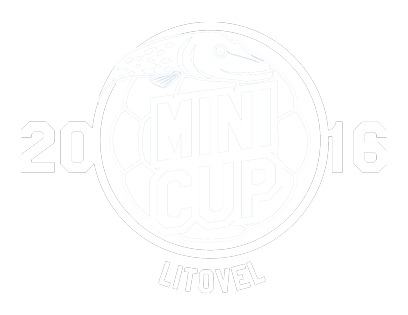
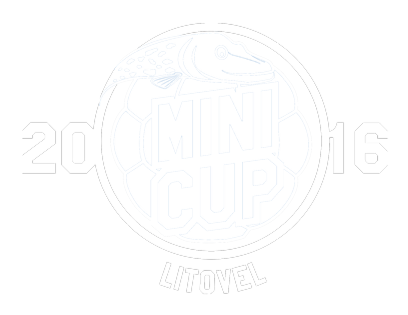
fixed outdated watermark

diff --git a/minicup/AdminModule/presenters/NewsPresenter.php b/minicup/AdminModule/presenters/NewsPresenter.php
@@ -32,7 +32,7 @@ class NewsPresenter extends BaseAdminPresenter
             ['link' => 'Homepage:default', 'name' => 'homepage (aktuality)', 'args' => []],
             ['link' => 'Homepage:informations', 'name' => 'informace o turnaji', 'args' => []],
             ['link' => 'Team:list', 'name' => 'seznam týmů dané kategorie', 'args' => ['category' => 'mladsi']],
-            ['link' => 'Team:detail', 'name' => 'detail týmu dané kategorie', 'args' => ['category' => 'mladsi', 'team' => 'tatran-litovel']],
+            // ['link' => 'Team:detail', 'name' => 'detail týmu dané kategorie', 'args' => ['category' => 'mladsi', 'team' => 'tatran-litovel']],
             ['link' => 'Match:default', 'name' => 'seznam zápasů dané kategorie', 'args' => ['category' => 'mladsi']],
             ['link' => 'Stats:default', 'name' => 'tabulka turnaje dané kategorie', 'args' => ['category' => 'mladsi']],
             ['link' => 'Gallery:default', 'name' => 'výchozí stránka fotogalerie', 'args' => []],
